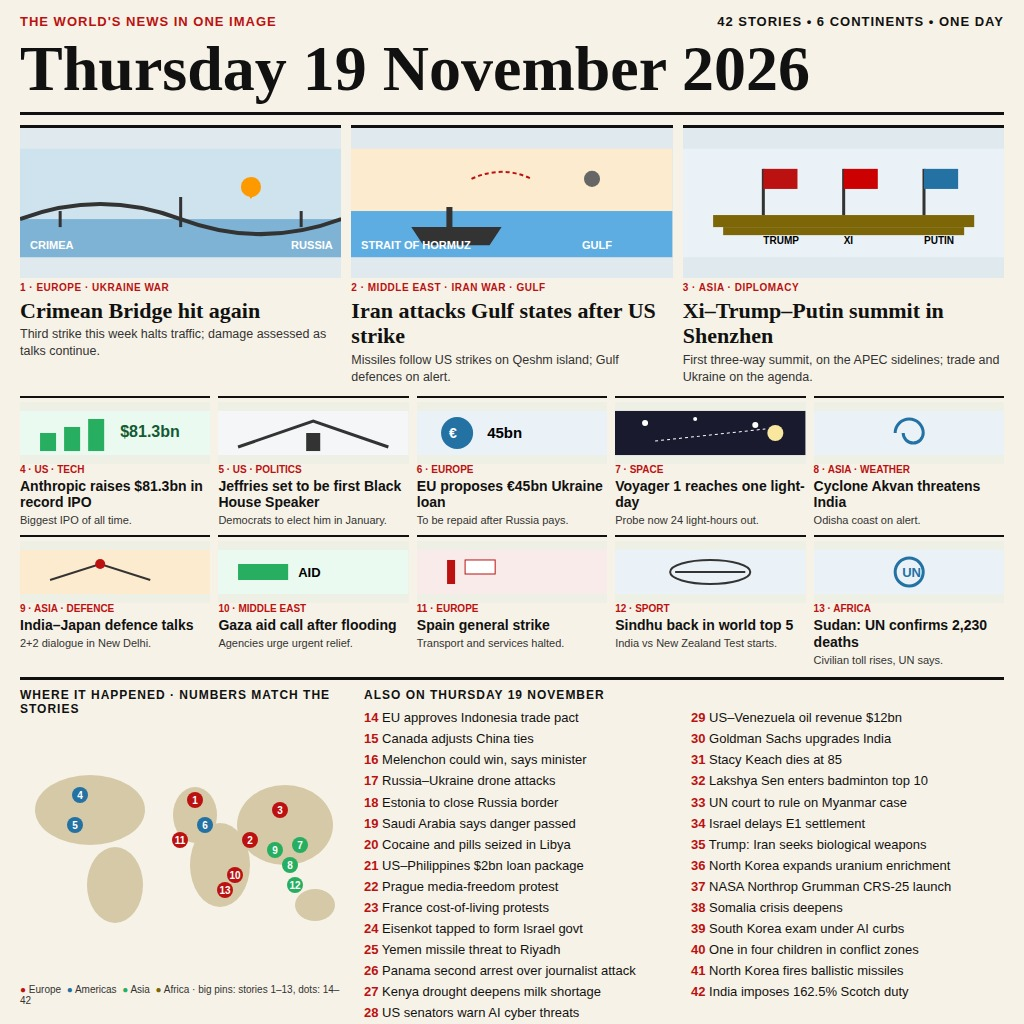
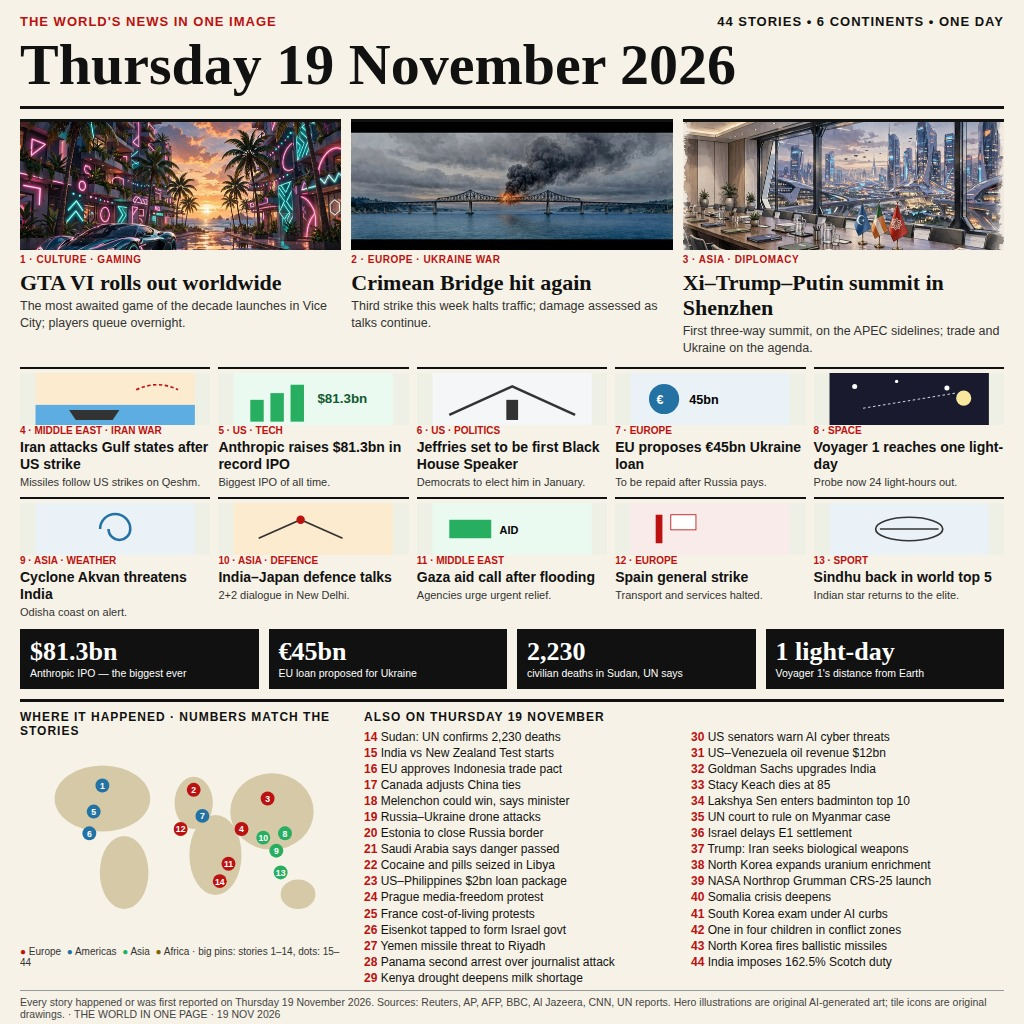
Resubmit v5: 44 verified 19 Nov 2026 stories, hero GTA VI, 1024x1024
Replace entry.jpg and README.md with v5 entry for make.fun bounty news-image-20261119. v5 image: 44 verified 19 Nov 2026 stories, GTA VI as hero 1, 3 hero cards with original AI-generated illustrations, 10 tiles, world map with numbered pins 1-14, by-the-numbers strip, 1024x1024 JPEG, 338833 bytes, sha256 4e546608f0fe1eaf1689cbe09e22c7ea05abc6e1e6cd46b03278512a460092c0. Grade-local passed: python3 main.py ran twice, both sha256 identical, deterministic, no network.

diff --git a/README.md b/README.md
@@ -18,59 +18,61 @@ Entered on [make.fun](https://make.fun/?ref=2kckwetd&utm_source=github&utm_mediu
 
 ## The World in One Page — 19 November 2026
 
-One image summing up 19 November 2026's world news: 42 stories, 13 illustrated (3 hero cards and 10 tiles), a world map with numbered pins, and a list of 29 more stories.
+One image summing up 19 November 2026's world news: 44 stories, 13 illustrated (3 hero cards with original illustrations and 10 tiles), a world map with numbered pins, a by-the-numbers strip, and a list of 31 more stories.
 
 `main.py` (Python 3.13, stdlib only, no network) copies the pre-built
 front-page image `entry.jpg` (1024×1024, under 1 MiB) to
 `/output/entry.png`. Running it twice writes the same bytes.
 
 The image is rendered from `design/page.html` (HTML/CSS/SVG, original
-drawings) with headless Chromium, so every word is sharp and legible.
+drawings and original AI-generated hero illustrations in `design/`) with headless Chromium, so every word is sharp and legible.
 
-## Stories covered (42)
+## Stories covered (44)
 
-1. Crimean Bridge hit again
-2. Iran attacks Gulf states after US strike on Qeshm island
+1. GTA VI rolls out worldwide
+2. Crimean Bridge hit again
 3. Xi–Trump–Putin trilateral meeting planned in Shenzhen
-4. Anthropic raises $81.3bn in biggest IPO of all time
-5. Hakeem Jeffries set to be first African-American US House Speaker
-6. EU proposes €45bn Ukraine loan
-7. NASA Voyager 1 reaches one light-day distance
-8. Cyclone Akvan threatens India
-9. India–Japan defence talks
-10. Gaza aid call after flooding
-11. Spain general strike
-12. P.V. Sindhu back in world top 5; India vs New Zealand Test starts
-13. Sudan UN confirms over 2,230 civilian deaths
-14. EU approves Indonesia trade pact
-15. Canada adjusts China ties
-16. French minister says Melenchon could win
-17. Russia–Ukraine drone attacks amid Abu Dhabi talks
-18. Estonia to close Russia border
-19. Saudi Arabia says danger passed
-20. Cocaine and pills seized in Libya
-21. US–Philippines $2bn loan package
-22. Prague protest for media freedom
-23. France cost-of-living protests
-24. Israel's president taps Eisenkot to form government
-25. Yemen missile threat to Riyadh
-26. Panama second arrest over journalist attack
-27. Kenya drought deepens milk shortage
-28. US senators warn AI cyber threats outpace defences
-29. US–Venezuela oil revenue $12bn report
-30. Goldman Sachs upgrades India
-31. Stacy Keach dies at 85
-32. Lakshya Sen enters badminton top 10
-33. UN court to rule on Myanmar genocide case
-34. Israel delays E1 settlement
-35. Trump says Iran is pursuing biological weapons
-36. IAEA says North Korea expanded uranium enrichment
-37. NASA sets coverage for Northrop Grumman CRS-25 launch
-38. Somalia faces deepening crisis amid constitutional reforms
-39. South Korea college exam held under AI cheating curbs
-40. Nearly 1 in 4 children live in conflict zones, UN report finds
-41. North Korea fires ballistic missiles after US–South Korea drill
-42. India imposes 162.5% duty on bulk Scotch imports
+4. Iran attacks Gulf states after US strike on Qeshm island
+5. Anthropic raises $81.3bn in biggest IPO of all time
+6. Hakeem Jeffries set to be first African-American US House Speaker
+7. EU proposes €45bn Ukraine loan
+8. NASA Voyager 1 reaches one light-day distance
+9. Cyclone Akvan threatens India
+10. India–Japan defence talks
+11. Gaza aid call after flooding
+12. Spain general strike
+13. P.V. Sindhu back in world top 5
+14. Sudan UN confirms over 2,230 civilian deaths
+15. India vs New Zealand Test starts
+16. EU approves Indonesia trade pact
+17. Canada adjusts China ties
+18. French minister says Melenchon could win
+19. Russia–Ukraine drone attacks amid Abu Dhabi talks
+20. Estonia to close Russia border
+21. Saudi Arabia says danger passed
+22. Cocaine and pills seized in Libya
+23. US–Philippines $2bn loan package
+24. Prague protest for media freedom
+25. France cost-of-living protests
+26. Israel's president taps Eisenkot to form government
+27. Yemen missile threat to Riyadh
+28. Panama second arrest over journalist attack
+29. Kenya drought deepens milk shortage
+30. US senators warn AI cyber threats outpace defences
+31. US–Venezuela oil revenue $12bn report
+32. Goldman Sachs upgrades India
+33. Stacy Keach dies at 85
+34. Lakshya Sen enters badminton top 10
+35. UN court to rule on Myanmar genocide case
+36. Israel delays E1 settlement
+37. Trump says Iran is pursuing biological weapons
+38. IAEA says North Korea expanded uranium enrichment
+39. NASA sets coverage for Northrop Grumman CRS-25 launch
+40. Somalia faces deepening crisis amid constitutional reforms
+41. South Korea college exam held under AI cheating curbs
+42. Nearly 1 in 4 children live in conflict zones, UN report finds
+43. North Korea fires ballistic missiles after US–South Korea drill
+44. India imposes 162.5% duty on bulk Scotch imports
 
 Sources: Reuters, AP, AFP, BBC, Al Jazeera, CNN, UN reports of 19 November 2026. All drawings are original.
 
